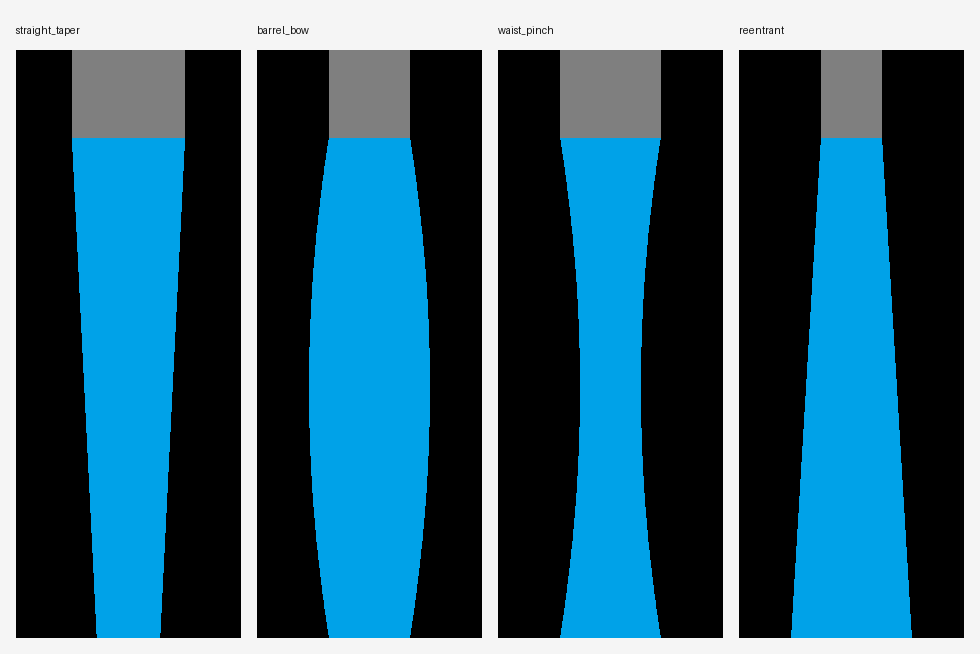
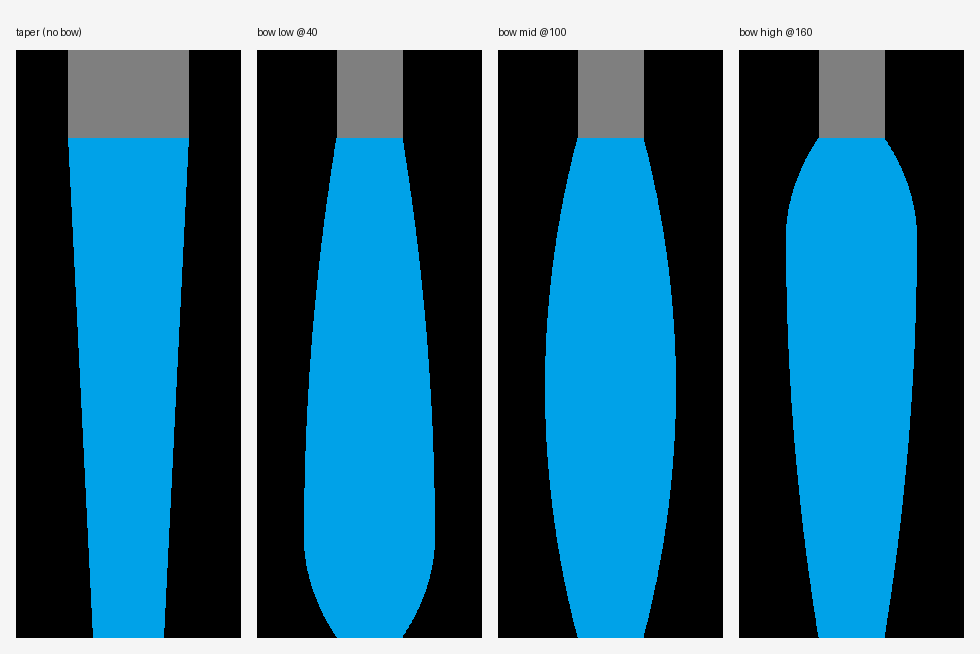
Correct bow semantics: bow = max CD at a placeable height
- _half_width: bow is the maximum CD (validated >= endpoints), located at
  bow_height (default H/2); smooth zero-slope apex via two parabolas. mid_width
  now handles gentle/waisted walls; no bow/mid -> linear taper.
- docs/07 rewritten; new demo moves a fixed max CD from low to high.
- Tests assert max CD == bow, peak lands at bow_height, and peak migrates.

diff --git a/tests/test_parametric.py b/tests/test_parametric.py
@@ -1,30 +1,52 @@
-"""The 'bow' knob must bend the sidewall as documented."""
+"""bow = maximum CD, placed at bow_height (default mid)."""
 import cv2
 import numpy as np
+import pytest
 
 from incoming_profile_utility.parametric import render_line, FEATURE_BGR
 
-FEATURE = np.array(FEATURE_BGR, dtype=np.uint8)  # cv2 stores/reads BGR
+FEATURE = np.array(FEATURE_BGR, dtype=np.uint8)  # cv2 reads BGR
+NPP = 0.4
 
 
 def _widths(path):
     im = cv2.imread(str(path))
-    mask = np.all(im == FEATURE, axis=2)
-    rows = np.where(mask.any(axis=1))[0]
-    at = lambda f: int(mask[rows[int(f * (len(rows) - 1))]].sum())
-    return at(0.98), at(0.5), at(0.02)  # bottom, mid, top
+    return np.all(im == FEATURE, axis=2).sum(axis=1)  # feature width per row
 
 
-def _render(params, path):
-    render_line(params, path)
-    return path
+def test_bow_is_max_cd_at_requested_height(tmp_path):
+    H, MASK, bow, bh = 200, 35, 52, 100
+    p = dict(pitch=90, feature_height=H, bottom_width=26, top_width=26,
+             bow=bow, bow_height=bh, mask_height=MASK)
+    render_line(p, tmp_path / "b.bmp", NPP)
+    w = _widths(tmp_path / "b.bmp")
+    max_cd_nm = w.max() * NPP
+    assert abs(max_cd_nm - bow) <= 1.0                     # max CD equals bow
+    row_at_bh = int(round((H + MASK - bh) / NPP))          # row for bow_height
+    assert w[row_at_bh] >= w.max() - 1                     # widest point is at bow_height
 
 
-def test_bow_signs(tmp_path):
-    base = dict(pitch=90, feature_height=200, bottom_width=32, top_width=32)
-    b, m, t = _widths(_render({**base, "bow": 16}, tmp_path / "barrel.bmp"))
-    assert m > b and m > t                      # positive bow bulges at mid
-    b, m, t = _widths(_render({**base, "bow": -16}, tmp_path / "waist.bmp"))
-    assert m < b and m < t                      # negative bow pinches at mid
-    b, m, t = _widths(_render({**base, "bow": 0}, tmp_path / "straight.bmp"))
-    assert abs(m - (b + t) / 2) <= 2            # zero bow is linear
+def test_bow_height_moves_the_peak(tmp_path):
+    def peak_h(bh):
+        p = dict(pitch=90, feature_height=200, bottom_width=26, top_width=26,
+                 bow=52, bow_height=bh, mask_height=35)
+        render_line(p, tmp_path / f"p{bh}.bmp", NPP)
+        w = _widths(tmp_path / f"p{bh}.bmp")
+        band = np.where(w >= w.max() - 1)[0]
+        return (200 + 35) - band.mean() * NPP              # physical height of peak band
+    assert peak_h(60) < peak_h(100) < peak_h(150)          # peak migrates upward
+
+
+def test_bow_below_endpoints_is_rejected(tmp_path):
+    with pytest.raises(ValueError):
+        render_line(dict(pitch=90, feature_height=200, bottom_width=40,
+                         top_width=40, bow=30), tmp_path / "x.bmp", NPP)
+
+
+def test_taper_is_linear_without_bow_or_mid(tmp_path):
+    p = dict(pitch=90, feature_height=200, bottom_width=20, top_width=60, mask_height=0)
+    render_line(p, tmp_path / "t.bmp", NPP)
+    w = _widths(tmp_path / "t.bmp")
+    rows = np.where(w > 0)[0]
+    b, m, t = w[rows[-1]], w[rows[len(rows)//2]], w[rows[0]]
+    assert abs(m - (b + t) / 2) <= 2

diff --git a/src/incoming_profile_utility/parametric.py b/src/incoming_profile_utility/parametric.py
@@ -34,27 +34,62 @@ def _resolve_cell(p: dict) -> float:
     raise ValueError("Provide 'pitch', or both 'space' and 'linewidth'.")
 
 
+def _half_width(ys, H, bottom, top, bow=None, bow_height=None, mid_width=None):
+    """Half-width (distance from centerline) vs height.
+
+    Priority:
+      1. bow given  -> smooth bulge whose MAXIMUM CD == bow, located at bow_height
+         (default H/2). Two parabolas meet with zero slope at the apex, so the peak
+         is exactly at (bow_height, bow) and the walls curve smoothly into it.
+      2. mid_width given -> parabola through bottom / mid / top (gentle curve, no peak).
+      3. neither -> straight linear taper from bottom to top.
+    """
+    hb, ht = bottom / 2, top / 2
+
+    if bow is not None:
+        if bow < max(bottom, top) - 1e-9:
+            raise ValueError(
+                "bow is the max CD, so it must be >= bottom_width and top_width. "
+                "For a pinched/waisted wall, use mid_width instead."
+            )
+        hv = bow / 2
+        eps = H * 1e-3
+        hbow = H / 2 if bow_height is None else float(bow_height)
+        hbow = min(max(hbow, eps), H - eps)
+        out = np.empty_like(ys, dtype=float)
+        lo = ys <= hbow
+        out[lo] = hv + (hb - hv) / hbow**2 * (ys[lo] - hbow) ** 2
+        out[~lo] = hv + (ht - hv) / (H - hbow) ** 2 * (ys[~lo] - hbow) ** 2
+        return np.clip(out, 0, None)
+
+    if mid_width is not None:
+        coef = np.polyfit([0.0, H / 2, H], [hb, mid_width / 2, ht], 2)
+        return np.clip(np.polyval(coef, ys), 0, None)
+
+    return hb + (ht - hb) * (ys / H)
+
+
 def build_line(p: dict, nm_per_px: float):
     """Build (layers, dims) for a single symmetric line profile.
 
     layers: list of (polygon_in_pixels, bgr_color). dims: (height_px, width_px).
     Required: feature_height, bottom_width, top_width, and pitch (or space+linewidth).
-    Optional: mid_width or bow, mask_height, mask_width, feature_color, mask_color.
+    Optional:
+      bow          -- the MAXIMUM CD (full width at the widest point of the wall)
+      bow_height   -- height at which the bow (max CD) occurs; default H/2
+      mid_width    -- CD at mid-height, for a gentle curve with no distinct peak
+      mask_height, mask_width, feature_color, mask_color
     """
     H = p["feature_height"]
     bottom, top = p["bottom_width"], p["top_width"]
-    bow = p.get("bow", 0.0)
-    mid = p.get("mid_width", (top + bottom) / 2 + bow)
     pitch = _resolve_cell(p)
     mask_h = p.get("mask_height", 0.0)
     mask_w = p.get("mask_width", top)
 
-    # parabola through (0, bottom/2), (H/2, mid/2), (H, top/2)
-    hs = np.array([0.0, H / 2, H])
-    hw = np.array([bottom / 2, mid / 2, top / 2])
-    coef = np.polyfit(hs, hw, 2)
-    ys = np.linspace(0, H, 300)
-    xs = np.clip(np.polyval(coef, ys), 0, None)
+    ys = np.linspace(0, H, 400)
+    xs = _half_width(ys, H, bottom, top,
+                     bow=p.get("bow"), bow_height=p.get("bow_height"),
+                     mid_width=p.get("mid_width"))
 
     total_h = H + mask_h
     W_px = math.ceil(pitch / nm_per_px)

diff --git a/docs/07-parametric-and-curvature.md b/docs/07-parametric-and-curvature.md
@@ -10,7 +10,9 @@ few numbers and the tool generates a smooth symmetric sidewall.
 | `bottom_width` | full width at the base (height 0) -- control point |
 | `mid_width`    | full width at mid-height -- control point |
 | `top_width`    | full width at the top -- control point |
-| `bow`          | mid deviation from the top/bottom average; sets sidewall curvature |
+| `bow`          | the MAXIMUM CD (widest full width on the wall) |
+| `bow_height`   | height at which the bow (max CD) occurs; default H/2 |
+| `mid_width`    | CD at mid-height, for a gentle curve with no distinct peak |
 | `pitch`        | unit-cell width (one line + one space) |
 | `space`        | gap width; `pitch = linewidth + space` |
 | `mask_height`  | height of the mask block on top (separate material) |
@@ -19,18 +21,24 @@ Provide `pitch`, or any two of {`pitch`, `space`, `linewidth`}. Give either
 `mid_width` directly or `bow` (then `mid_width = (top+bottom)/2 + bow`).
 
 ## The curvature model
-A parabola is fit through the three control points
-`(0, bottom/2)`, `(H/2, mid/2)`, `(H, top/2)`. Because a parabola's mid value is
-its deviation from the endpoint average, **bow is literally the curvature knob**:
+The sidewall half-width vs height is built from what you provide:
 
-- `bow = 0`  -> straight taper (linear from bottom to top)
-- `bow > 0`  -> barrel / bulge (widest at mid)
-- `bow < 0`  -> waist / pinch (narrowest at mid)
-- `bottom_width > top_width` -> re-entrant / undercut
+- **`bow` (max CD) + `bow_height`** -> a smooth bulge whose maximum equals `bow`,
+  located at `bow_height`. Two parabolas meet with zero slope at the apex, so the
+  peak sits exactly at `(bow_height, bow)` and the walls curve into it. `bow_height`
+  is free -- the widest point can be low, mid, or high (see demo). Constraint:
+  `bow >= max(bottom_width, top_width)` (it is the maximum). The demo below moves a
+  fixed max CD from low to high:
 
-![curvature demo](curvature_demo.png)
+![bow-location demo](curvature_demo.png)
 
-Verified: rendered widths at bottom/mid/top match the input CDs exactly.
+- **`mid_width`** (no bow) -> parabola through bottom / mid / top: a gentle curved
+  wall, and the way to express a waist/pinch (mid narrower than the ends).
+- **neither** -> straight linear taper. `bottom_width > top_width` gives a
+  re-entrant / undercut wall.
+
+Verified in tests: max CD equals `bow`, the widest point lands at `bow_height`, and
+the peak migrates as `bow_height` changes.
 
 ## Beyond three points (later)
 Three control points cover taper, bow, waist, and re-entrant walls -- the common
